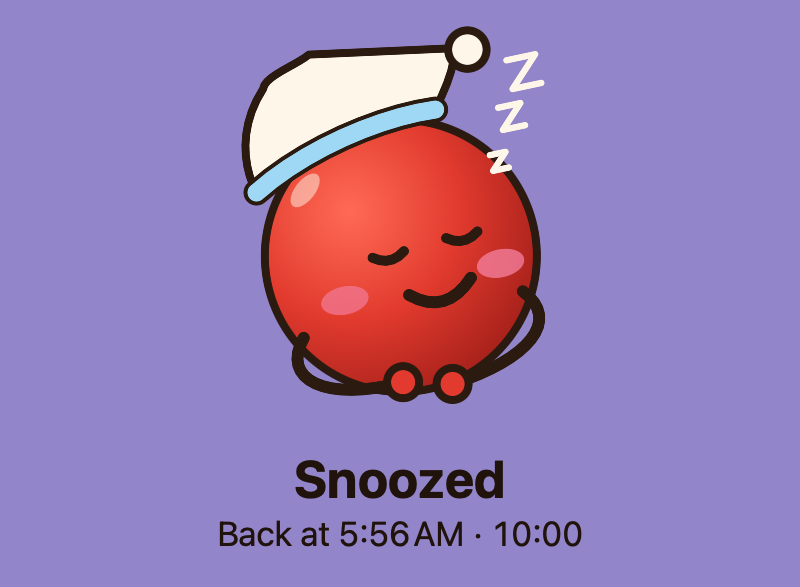
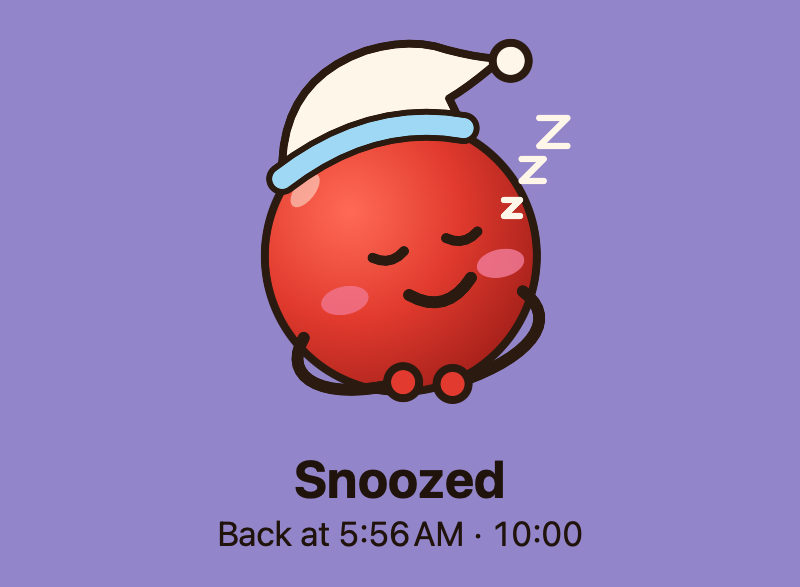
fix: transplant the mock's cap and free the Z's
Cap, brim, bobble and the Z run now use the approved artifact's own SVG coordinates instead of values approximated from a screenshot. The Z's move out of HeldPropView into ZedsView, drawn beside the character rather than inside its -12 degree turn, as the mock draws them — inside the turn the top Z lands on the relocated bobble, cream on cream.

Changed region(s): [[0.2812, 0.0307, 0.7188, 0.3986]]

diff --git a/macos/Throwntom/Sources/ThrowntomUI/Mascot/HeldPropView.swift b/macos/Throwntom/Sources/ThrowntomUI/Mascot/HeldPropView.swift
@@ -129,30 +129,31 @@ enum HeldProps {
     path.line(units, 88, 22)
   }
 
-  /// The nightcap: a cone pulled down where the crown was, its brim riding the top of the head and
-  /// its point flopped to the near side. Past the crest at (38, 2) the top edge is a straight
-  /// taper — the sharp angle there is what keeps it a cap and not a pillow. It replaces the crown
-  /// outright: the asleep pose is not `crowned`, because the crown is drawn swept far enough right
-  /// (`TomatoBodyView`) that no cap this thin could cover its tip.
+  /// The nightcap, verbatim from the approved mock (throwntom-bxd.5): a cone pulled down where
+  /// the crown was, cresting at (52, 4) and pared into a thin finger that reaches (85, 13), with
+  /// the bobble hanging off the head's edge past it. It replaces the crown outright: the asleep
+  /// pose is not `crowned`, because the crown is drawn swept far enough right (`TomatoBodyView`)
+  /// that no cap this thin could cover its tip.
   static let nightcapCone = DesignShape { path, units in
-    path.move(units, 18, 33)
-    path.curve(units, 16, 26, 17, 16, 25, 8)
-    path.curve(units, 26, 5, 34, 4, 38, 2)
-    path.line(units, 74, 8)
-    path.curve(units, 73, 12.5, 70, 17, 66, 22)
-    path.curve(units, 52, 21, 32, 25, 18, 33)
+    path.move(units, 25, 31)
+    path.quad(units, 29, 7, 52, 4)
+    path.quad(units, 64, 3, 72, 8)
+    path.quad(units, 80, 12, 85, 13)
+    path.quad(units, 76, 18, 70, 20)
+    path.quad(units, 71, 24, 72, 28)
+    path.quad(units, 50, 19, 25, 31)
     path.closeSubpath()
   }
 
   /// The brim, along the bottom edge of the cone and stroked over it, so the band reads as turned
   /// up rather than as a line ruled across the cap.
   static let nightcapBrim = DesignShape { path, units in
-    path.move(units, 18, 33)
-    path.curve(units, 32, 25, 52, 21, 66, 22)
+    path.move(units, 25, 31)
+    path.quad(units, 50, 19, 72, 28)
   }
 
   static let nightcapBobble = DesignShape { path, units in
-    path.circle(units, 77, 9, 4.8)
+    path.circle(units, 87, 14, 4.5)
   }
 
   /// How many Z's drift off the cap at once.
@@ -224,11 +225,12 @@ enum HeldProps {
   // MARK: Private
 
   /// Where a Z sets off — beside the cheek, under the cap's flopped point — and how far it travels
-  /// over its run: up and away from the face, into the corner the "!" used to shout from. The climb
-  /// is long enough that Z's a third of a cycle apart never touch, so they read as three.
-  private static let zedStart = CGPoint(79, 38)
-  private static let zedDrift = CGSize(width: 16, height: -31)
-  private static let zedHalfSizeRange: ClosedRange<Double> = 2 ... 4.5
+  /// over its run: up and away from the face, into the corner the "!" used to shout from. Start,
+  /// end and sizes are the mock's own; the climb is long enough that Z's a third of a cycle apart
+  /// never touch, so they read as three.
+  private static let zedStart = CGPoint(78, 44)
+  private static let zedDrift = CGSize(width: 15.5, height: -28.5)
+  private static let zedHalfSizeRange: ClosedRange<Double> = 2 ... 4.25
   /// The last fraction of a run, over which the Z fades out.
   private static let zedFadeOut = 0.25
 
@@ -243,8 +245,6 @@ struct HeldPropView: View {
   let prop: HeldProp
   /// How far the yo-yo hangs below the hand, in design units; ignored by every other prop.
   let yoyoDrop: Double
-  /// Where the nightcap's Z's are in their cycle, 0 to 1; ignored by every other prop.
-  let zzzPhase: Double
   let unit: CGFloat
 
   var body: some View {
@@ -316,26 +316,17 @@ struct HeldPropView: View {
     }
   }
 
-  /// Cream cap, sky brim, cream Z's: the cap borrows the drink's and the yo-yo's own blue rather
-  /// than introducing a colour, and the Z's are the cream the "!" they replace was drawn in.
+  /// Cream cap, sky brim: the cap borrows the drink's and the yo-yo's own blue rather than
+  /// introducing a colour. The Z's are not here — they are air, not prop, drawn by `ZedsView`
+  /// outside the character's turn the way the approved mock draws them.
   private var nightcap: some View {
     ZStack {
       HeldProps.nightcapCone.fill(Palette.cream.color)
       HeldProps.nightcapCone.stroke(outline, style: StrokeStyle(lineWidth: 2 * unit, lineJoin: .round))
-      HeldProps.nightcapBrim.stroke(outline, style: StrokeStyle(lineWidth: 6.5 * unit, lineCap: .round))
-      HeldProps.nightcapBrim.stroke(MascotPalette.sky.color, style: StrokeStyle(lineWidth: 4.5 * unit, lineCap: .round))
+      HeldProps.nightcapBrim.stroke(outline, style: StrokeStyle(lineWidth: 8 * unit, lineCap: .round))
+      HeldProps.nightcapBrim.stroke(MascotPalette.sky.color, style: StrokeStyle(lineWidth: 5 * unit, lineCap: .round))
       HeldProps.nightcapBobble.fill(Palette.cream.color)
       HeldProps.nightcapBobble.stroke(outline, lineWidth: 2 * unit)
-      zeds
-    }
-  }
-
-  private var zeds: some View {
-    ForEach(0 ..< HeldProps.zedCount, id: \.self) { index in
-      let progress = HeldProps.zedProgress(index, phase: zzzPhase)
-      HeldProps.zed(progress: progress)
-        .stroke(Palette.cream.color, style: StrokeStyle(lineWidth: 1.6 * unit, lineCap: .round, lineJoin: .round))
-        .opacity(HeldProps.zedOpacity(progress: progress))
     }
   }
 
@@ -358,4 +349,28 @@ struct HeldPropView: View {
     }
   }
 
+}
+
+// MARK: - ZedsView
+
+/// The nightcap's Z's, drifting into the corner the "!" used to shout from. They are air, not
+/// prop: the approved mock draws them outside the character's −12° turn and its breathe, upright
+/// in the room, so they live beside the character in `MascotCharacterView` rather than in
+/// `HeldPropView`. Cream, because that is what the "!" they replace was drawn in.
+struct ZedsView: View {
+  /// Where the Z's are in their shared cycle, 0 to 1.
+  let zzzPhase: Double
+  let unit: CGFloat
+
+  var body: some View {
+    ZStack {
+      ForEach(0 ..< HeldProps.zedCount, id: \.self) { index in
+        let progress = HeldProps.zedProgress(index, phase: zzzPhase)
+        HeldProps.zed(progress: progress)
+          .stroke(Palette.cream.color, style: StrokeStyle(lineWidth: 1.6 * unit, lineCap: .round, lineJoin: .round))
+          .opacity(HeldProps.zedOpacity(progress: progress))
+      }
+    }
+    .frame(width: Units.canvas * unit, height: Units.canvas * unit)
+  }
 }

diff --git a/macos/Throwntom/Sources/ThrowntomUI/Mascot/MascotView.swift b/macos/Throwntom/Sources/ThrowntomUI/Mascot/MascotView.swift
@@ -35,6 +35,9 @@ struct MascotCharacterView: View {
       if pose.furniture == .laptop {
         FurnitureView(furniture: .laptop, scheme: scheme, unit: unit)
       }
+      if pose.held == .nightcap {
+        ZedsView(zzzPhase: frame.zzzPhase, unit: unit)
+      }
     }
     .frame(width: Units.canvas * unit, height: Units.canvas * unit)
   }
@@ -88,7 +91,7 @@ struct MascotCharacterView: View {
     case .hands:
       HandsView(left: pose.leftArm, right: pose.rightArm, unit: unit)
     case .held(let prop):
-      HeldPropView(prop: prop, yoyoDrop: frame.yoyoDrop, zzzPhase: frame.zzzPhase, unit: unit)
+      HeldPropView(prop: prop, yoyoDrop: frame.yoyoDrop, unit: unit)
     case .worn(let prop):
       WornPropView(prop: prop, unit: unit)
     }

diff --git a/macos/Throwntom/Tests/ThrowntomUITests/HeldPropViewTests.swift b/macos/Throwntom/Tests/ThrowntomUITests/HeldPropViewTests.swift
@@ -157,8 +157,9 @@ final class HeldPropViewTests: XCTestCase {
   @MainActor
   func testEveryPropBuilds() {
     for prop in [HeldProp.drink, .book, .yoyo, .cable, .exclamation, .burger, .nightcap] {
-      _ = HeldPropView(prop: prop, yoyoDrop: 10, zzzPhase: 0.25, unit: 2).body
+      _ = HeldPropView(prop: prop, yoyoDrop: 10, unit: 2).body
     }
+    _ = ZedsView(zzzPhase: 0.25, unit: 2).body
   }
 
   // MARK: Private

diff --git a/DESIGN.md b/DESIGN.md
@@ -346,7 +346,7 @@ a menu has to be guessed at before it can be opened.
 
 ### Mascot (macOS)
 
-The README tomato drawn in code on a 100×100 canvas scaled to 200pt: a radial-gradient body with a 2-unit `macos-outline` stroke, stem and two gradient leaves, a cream glint, two blush cheeks, eyes with a white catchlight, a mouth, and two thin line arms (3-unit `macos-outline`) that hang from one shoulder per side, ending in round `mascot-body` hands. The whole character is rotated 12° counter-clockwise and the face is drawn three-quarter, features shifted toward the near side, so it reads as turned slightly away like the README sticker. One pose per phase — laptop for work, the same laptop and a worn headset for a meeting, cold drink for short break, reading on a sofa for long break, a cheeseburger in both hands for lunch, a yo-yo for idle, arms up for awaiting confirm, eyes closed and still for paused, asleep in a nightcap for a running snooze, a yanked cable for disconnected — with props always drawn so the tomato faces them, not the viewer. Lunch and the long break share a ground, so the pose is the second thing that separates them after the name, and a meeting and work share one the same way. The asleep pose is the one the daemon's phase does not choose — a snooze is reported beside the state — and it is drawn as the opposite of the awaiting-confirm pose it stands in for: eyes shut, the `!` put down, arms folded low, and the jump gone. Its cap is pulled down where the crown was, like a real nightcap — the brim rides the top of the head and the point tapers sharply to the near side with the bobble past its tip. The crown comes off for the night: the pose doffs the stem and leaves rather than stuffing them under the cream, because the crown is drawn swept too far right for a cap this thin to cover. The Z's never touch one another, so they read as three. A worn prop is neither a held prop nor furniture: it is drawn inside the character transform, so it turns and breathes with the body, where furniture stays put in canvas coordinates. `docs/designs/mascot-screenshots/` holds the rendered poses, regenerated by `tools/mascot-snap.sh`. Idle motion (blink, ±2° breathing bob, the yo-yo's drop and return, a jump on awaiting confirm, three Z's drifting up off the nightcap on a 4-second cycle over the 3-second breath) is small and off under Reduce Motion. The Z's are staggered by thirds of that cycle, so the still frame Reduce Motion draws is a small-to-large `zZZ` rather than a blank space or three of the same Z.
+The README tomato drawn in code on a 100×100 canvas scaled to 200pt: a radial-gradient body with a 2-unit `macos-outline` stroke, stem and two gradient leaves, a cream glint, two blush cheeks, eyes with a white catchlight, a mouth, and two thin line arms (3-unit `macos-outline`) that hang from one shoulder per side, ending in round `mascot-body` hands. The whole character is rotated 12° counter-clockwise and the face is drawn three-quarter, features shifted toward the near side, so it reads as turned slightly away like the README sticker. One pose per phase — laptop for work, the same laptop and a worn headset for a meeting, cold drink for short break, reading on a sofa for long break, a cheeseburger in both hands for lunch, a yo-yo for idle, arms up for awaiting confirm, eyes closed and still for paused, asleep in a nightcap for a running snooze, a yanked cable for disconnected — with props always drawn so the tomato faces them, not the viewer. Lunch and the long break share a ground, so the pose is the second thing that separates them after the name, and a meeting and work share one the same way. The asleep pose is the one the daemon's phase does not choose — a snooze is reported beside the state — and it is drawn as the opposite of the awaiting-confirm pose it stands in for: eyes shut, the `!` put down, arms folded low, and the jump gone. Its cap is pulled down where the crown was, like a real nightcap — the brim rides the top of the head and the point tapers sharply to the near side with the bobble past its tip. The crown comes off for the night: the pose doffs the stem and leaves rather than stuffing them under the cream, because the crown is drawn swept too far right for a cap this thin to cover. The Z's are air, not prop: they hang upright in the corner of the room, outside the character's turn and breathe, and never touch one another, so they read as three. A worn prop is neither a held prop nor furniture: it is drawn inside the character transform, so it turns and breathes with the body, where furniture stays put in canvas coordinates. `docs/designs/mascot-screenshots/` holds the rendered poses, regenerated by `tools/mascot-snap.sh`. Idle motion (blink, ±2° breathing bob, the yo-yo's drop and return, a jump on awaiting confirm, three Z's drifting up off the nightcap on a 4-second cycle over the 3-second breath) is small and off under Reduce Motion. The Z's are staggered by thirds of that cycle, so the still frame Reduce Motion draws is a small-to-large `zZZ` rather than a blank space or three of the same Z.
 
 ### Chip (macOS)
 
